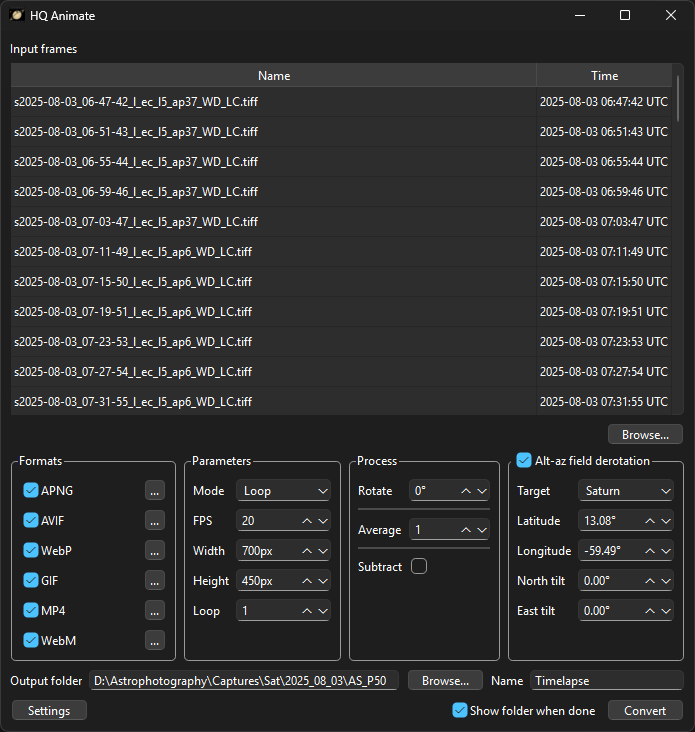
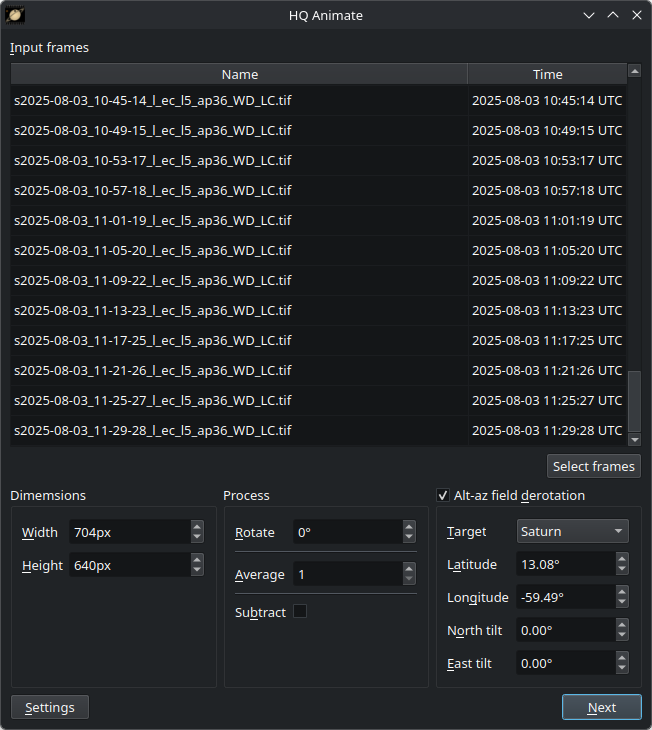
Update documentation.

diff --git a/README.md b/README.md
@@ -1,26 +1,24 @@
+# HQ Animate
 <p align="center">
     <img src="./icons/128x128/com.chappelastro.HQAnimate.png" alt="H Q Animate icon." />
 </p>
 
-# <center>HQ Animate</center>
 <p align="center">Create high quality animations from a sequence of image files.</p>
 
-<center>
-    <img src="./Screenshot.png" alt="H Q Animate screenshot." />
-</center>
+<p align="center">
+    <img src="./Screenshot.png" alt="Screenshot of H Q Animate window." />
+</p>
 
 ## Installation
 
-Requires Python 3.12 or later.
+`uv` is recommended since it installs Python applications into isolated environments.
 
-### Install with `pipx`
-`pipx` is recommended since it installs Python applications into isolated environments.
+Installation instructions for `uv`: [https://docs.astral.sh/uv/getting-started/installation/](https://docs.astral.sh/uv/getting-started/installation/)
 
-Installation instructions for `pipx`: [https://pipx.pypa.io/stable/installation/](https://pipx.pypa.io/stable/installation/)
+Open a terminal and install HQ Animate with this command:
 
-Open a terminal and navigate to the project's root folder, where `pyproject.toml` is located, then run:
 ```
-pipx install https://github.com/EthanChappel/HQ-Animate/archive/refs/heads/main.tar.gz
+uv tool install https://github.com/EthanChappel/HQ-Animate.git
 ```
 
 #### Upgrade
@@ -28,24 +26,7 @@ pipx install https://github.com/EthanChappel/HQ-Animate/archive/refs/heads/main.
 To upgrade the program to the latest version, run:
 
 ```
-pipx upgrade hq-animate
-```
-
-### Install with `pip`
-Alternatively, install into the current Python environemt with `pip`.
-
-Open a terminal and navigate to the project's root folder, where pyproject.toml is located, then run:
-
-```
-pip install https://github.com/EthanChappel/HQ-Animate/archive/refs/heads/main.tar.gz
-```
-
-#### Upgrade
-
-To upgrade the program to the latest version, run:
-
-```
-pip install --upgrade hq-animate
+uv tool upgrade hq-animate
 ```
 
 ## Usage
